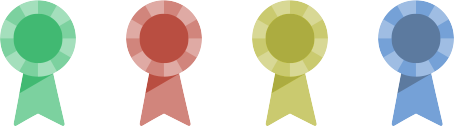
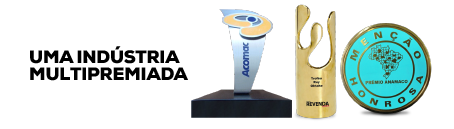
mudança de layout de acordo com o cliente

diff --git a/styles/scss/_footer-site.scss b/styles/scss/_footer-site.scss
@@ -49,15 +49,15 @@
     .certified {
       @extend .footer-column;
       .stamps {
-        width: 363px;
-        height: 80px;
+        width: 454px;
+        height: 129px;
         background-image: url('/images/stamps.png');
-        background-size: 363px 80px;
+        background-size: 454px 129px;
       }
     }
   }
   .bottom-bar {
-    height: 73px;
+    height: 90px;
     background-color: $main-color;
     .logo {
       float: left;
@@ -79,12 +79,20 @@
     }
     .linkedin {
       float: left;
-      width: 109px;
-      height: 26px;
-      margin-top: 23.5px;
-      margin-left: 80px;
-      //background-image: url('/images/linkedin_isdralit.jpg');
-      background-size: 109px 26px;
+      width: 80px;
+      height: 20px;
+      margin-top: 31px;
+      margin-left: 70px;
+      background-size: 70px 10px;
+      a {
+        display: block;
+        width: 80px;
+        height: 20px;
+        img {
+          width: 80px;
+          height: 20px;
+        }
+      }
     }
   }
 }
